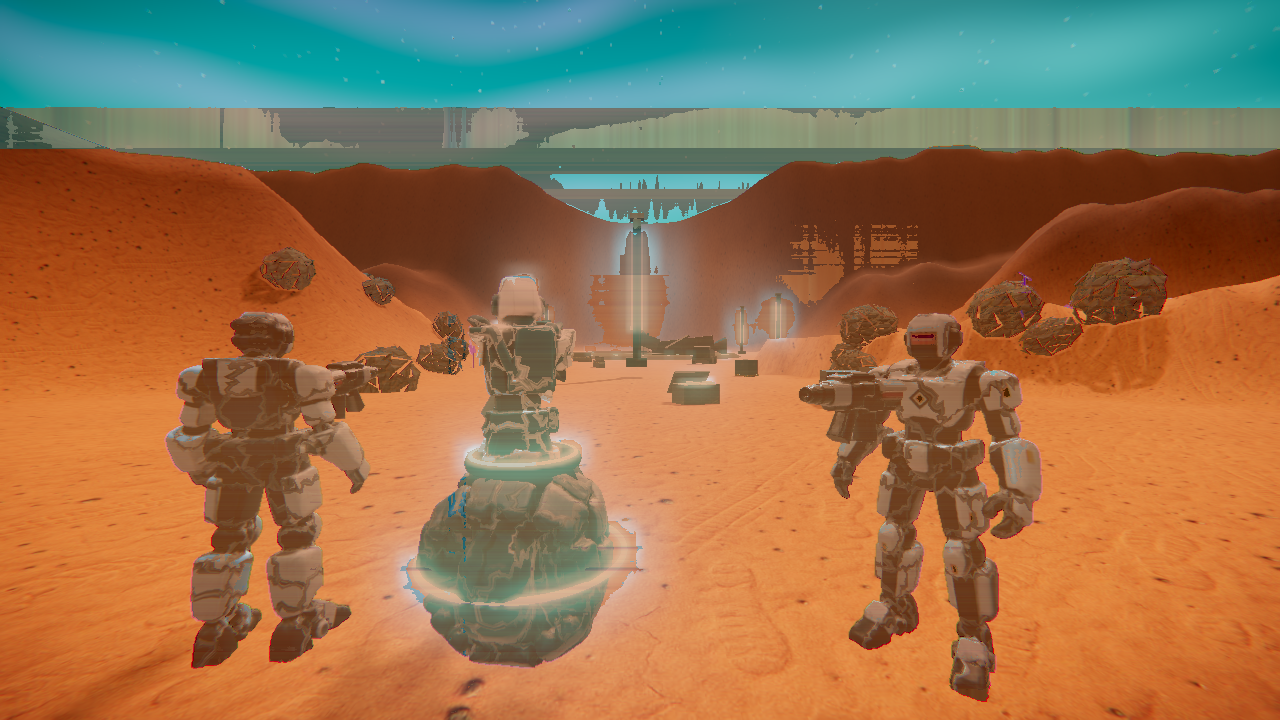
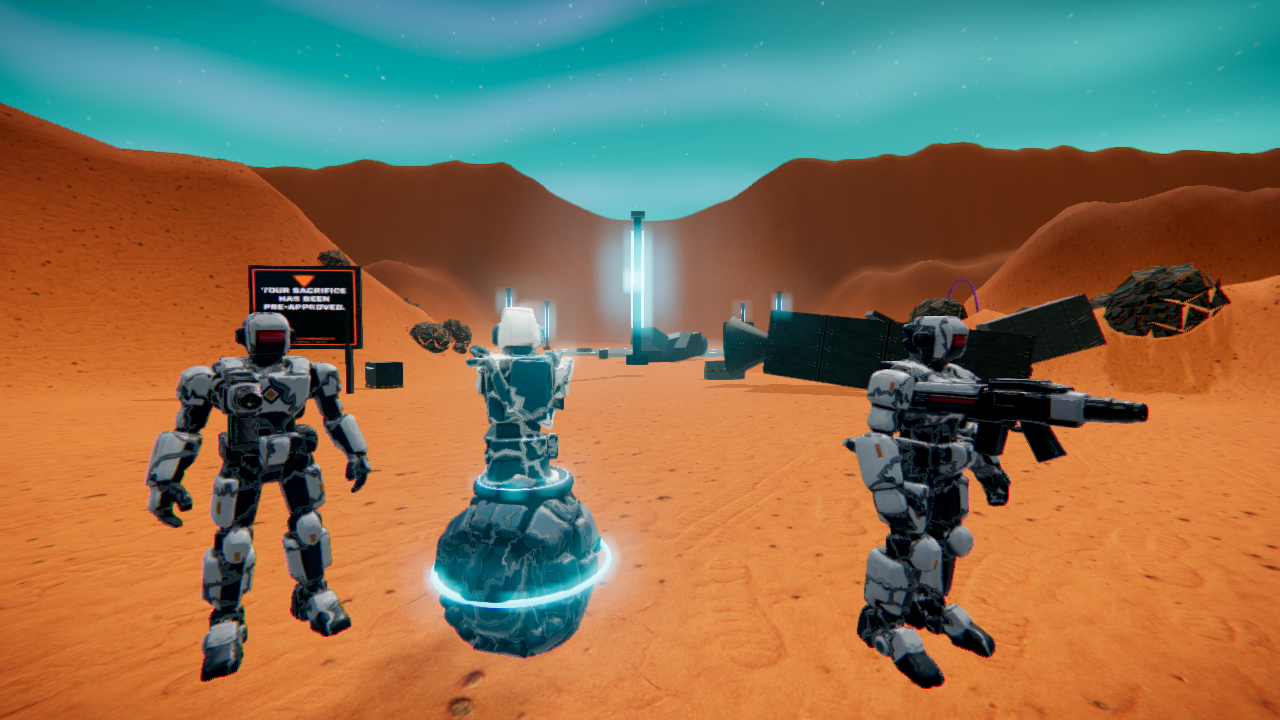
Darker Sentinel tint; warmer canyon rock

diff --git a/src/render/materials.js b/src/render/materials.js
@@ -30,8 +30,8 @@ export const Mat = {
   panel: (v = 0) => cached('panel' + v, () => useGenerated(new THREE.MeshStandardMaterial({ map: Tex.metalPanel(v), roughness: 0.65, metalness: 0.4 }), 'tex_metal_panel', [1 + (v % 2) * 0.5, 1 + (v % 3) * 0.5], { color: ['#d8d8d8', '#b0b4ba', '#c8c8c8', '#a0a4aa'][v % 4] })),
   concrete: () => cached('concrete', () => useGenerated(new THREE.MeshStandardMaterial({ map: Tex.concrete(), roughness: 0.95, metalness: 0.0, color: '#7a7a78' }), 'tex_concrete', [2, 2], { color: '#8e8e8a' })),
   hazard: () => cached('hazard', () => new THREE.MeshStandardMaterial({ map: Tex.hazard(), roughness: 0.7, metalness: 0.3 })),
-  rock: () => cached('rock', () => useGenerated(new THREE.MeshStandardMaterial({ map: Tex.rock(), roughness: 0.95, metalness: 0.02, color: '#8a8a8a' }), 'tex_rock', [2, 2], { color: '#8c8c8c' })),
-  rockDust: () => cached('rockDust', () => useGenerated(new THREE.MeshStandardMaterial({ map: Tex.rock(), roughness: 0.95, metalness: 0.0, color: '#c07a4a' }), 'tex_rock', [2, 2], { color: '#c08a5a' })),
+  rock: () => cached('rock', () => useGenerated(new THREE.MeshStandardMaterial({ map: Tex.rock(), roughness: 0.95, metalness: 0.02, color: '#8a8a8a' }), 'tex_rock', [2, 2], { color: '#b09078' })),
+  rockDust: () => cached('rockDust', () => useGenerated(new THREE.MeshStandardMaterial({ map: Tex.rock(), roughness: 0.95, metalness: 0.0, color: '#c07a4a' }), 'tex_rock', [2, 2], { color: '#d09a68' })),
   // Enemies: dark biomechanical chassis with red-orange glow
   legionArmor: () => cached('legionArmor', () => useGenerated(new THREE.MeshStandardMaterial({ map: Tex.armorBlack(), roughness: 0.6, metalness: 0.3, color: '#8a8f96' }), 'tex_legion_armor', [1, 1], { color: '#a4aab2' })),
   legionFlesh: () => cached('legionFlesh', () => new THREE.MeshStandardMaterial({ color: '#3a1f24', roughness: 0.85, metalness: 0.1, emissive: '#3a0a10', emissiveIntensity: 0.25 })),

diff --git a/src/models/soldier.js b/src/models/soldier.js
@@ -255,7 +255,7 @@ export function buildSoldier(styleName = 'vanguard', opts = {}) {
   // Use rest world matrices computed with root at origin: ensure bones' matrixWorld are rest
   // custom GLB bodies: vanguard (player + squad) and the sentinel trooper; procedural parts stay for gibs/ragdoll fallbacks
   const customKey = opts.custom !== undefined ? opts.custom : (styleName === 'vanguard' ? 'vanguard' : null);
-  if (customKey && CUSTOM.body[customKey]) { try { applyCustomBody(model, CUSTOM.body[customKey], { neon: customKey === 'vanguard' ? style.neon : '#ff3b1f', tint: customKey === 'vanguard' ? null : '#8a8a92', noLegs: customKey === 'vanguard', ballRadius: 0.5, torsoScale: 1.16 }); } catch (e) { console.warn('[glb] custom body failed', e); } }
+  if (customKey && CUSTOM.body[customKey]) { try { applyCustomBody(model, CUSTOM.body[customKey], { neon: customKey === 'vanguard' ? style.neon : '#ff3b1f', tint: customKey === 'vanguard' ? null : '#5e6068', noLegs: customKey === 'vanguard', ballRadius: 0.5, torsoScale: 1.16 }); } catch (e) { console.warn('[glb] custom body failed', e); } }
   return model;
 }
 
